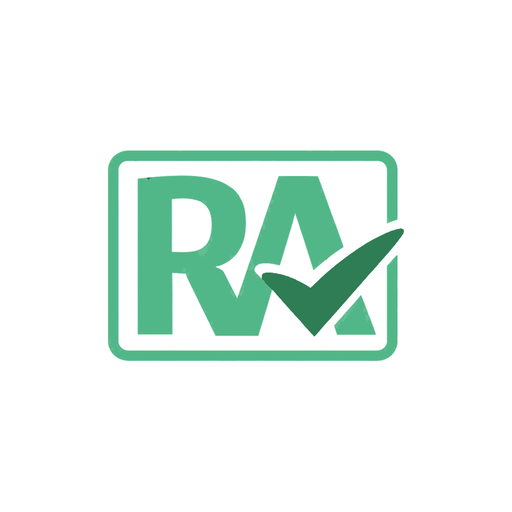
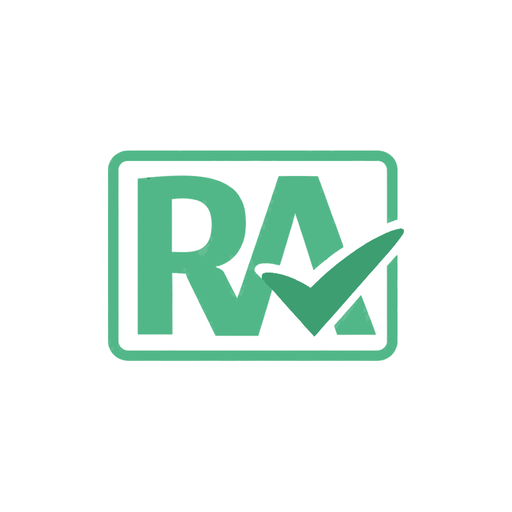
チェックを濃ミント #3D9E72 へ＝目を奪わない（司さん差し戻し 2026-08-29）
司さん「なんか変な／チェックにしか目がいかん」

★2回 外した所を 記録する★
  #2E7D54（浮き2.03・濃い）… 一番 重い物になった＝差し戻し
  #C8ECD8（浮き1.94・薄い）… 32pxで ほぼ 消える（自分で切り出して見た）
  ★#3D9E72（浮き1.34）★    … 枠と一体に見える。小さくしても残る。
⇒ ★「明るい方/濃い方」ではなく『枠から どれだけ離れているか』が効いていた★

・見張りを 決まりごと 直した … ★チェックと枠の浮きが 1.5 以上なら 赤★
  （前の「明るい方が正しい」は 間違い＝薄すぎても 外れる）
  わざと #2E7D54 と #C8ECD8 の 両方を入れて ★どちらも赤になる事を確認★→ 戻した。
・使ってよい色の一覧(BRAND_COLORS)を 機械に持たせた＝一覧に無い色は 赤。
・ロゴ・アイコン6枚・?v= を 刷り直し（--check 両方 一致）。
・形は1ドットも変えていない（塗り替えた元絵と 違い0点）。

Claude-Session: https://claude.ai/code/session_01C5aRa2uJxhXw8ECt3a9s4k

Changed region(s): [[0.5, 0.4375, 0.7812, 0.6562]]

diff --git a/seikyu/index.html b/seikyu/index.html
@@ -9,9 +9,9 @@
 <meta name="apple-mobile-web-app-status-bar-style" content="default">
 <link rel="manifest" href="manifest.json">
 <!-- ★iOSは manifest を見ない＝ここで渡す（透明を持たないPNG＝黒く塗られない）★ -->
-<link rel="apple-touch-icon" href="../img/apple-touch-icon-180.png?v=597730a6">
-<link rel="icon" type="image/png" sizes="32x32" href="../img/favicon-32.png?v=382ce080">
-<link rel="icon" type="image/png" sizes="16x16" href="../img/favicon-16.png?v=8b47e8b8">
+<link rel="apple-touch-icon" href="../img/apple-touch-icon-180.png?v=b196480a">
+<link rel="icon" type="image/png" sizes="32x32" href="../img/favicon-32.png?v=691705d6">
+<link rel="icon" type="image/png" sizes="16x16" href="../img/favicon-16.png?v=b50da9f3">
 <link rel="preconnect" href="https://fonts.googleapis.com">
 <link href="https://fonts.googleapis.com/css2?family=DM+Mono:wght@500&family=Noto+Sans+JP:wght@400;500;700&display=swap" rel="stylesheet">
 <!-- ★見た目の本体はスイート共通の皮。請求書の app.css は差分だけ（読む順は皮が先） -->

diff --git a/kyuyo/index.html b/kyuyo/index.html
@@ -11,9 +11,9 @@
 <meta name="apple-mobile-web-app-status-bar-style" content="default">
 <meta name="apple-mobile-web-app-title" content="給与">
 <!-- ★iOSは manifest を見ない＝ここで渡す（透明を持たないPNG＝黒く塗られない）★ -->
-<link rel="apple-touch-icon" href="../img/apple-touch-icon-180.png?v=597730a6">
-<link rel="icon" type="image/png" sizes="32x32" href="../img/favicon-32.png?v=382ce080">
-<link rel="icon" type="image/png" sizes="16x16" href="../img/favicon-16.png?v=8b47e8b8">
+<link rel="apple-touch-icon" href="../img/apple-touch-icon-180.png?v=b196480a">
+<link rel="icon" type="image/png" sizes="32x32" href="../img/favicon-32.png?v=691705d6">
+<link rel="icon" type="image/png" sizes="16x16" href="../img/favicon-16.png?v=b50da9f3">
 <link rel="preconnect" href="https://fonts.googleapis.com">
 <link href="https://fonts.googleapis.com/css2?family=DM+Mono:wght@500&family=Noto+Sans+JP:wght@400;500;700&display=swap" rel="stylesheet">
 <link rel="stylesheet" href="css/app.css?v=462e325f">

diff --git a/index.html b/index.html
@@ -7,9 +7,9 @@
 <title>Rakunally（ラクナリー）</title>
 <link rel="manifest" href="manifest.json">
 <!-- ★iOSは manifest を見ない＝ここで渡す（透明を持たないPNG＝黒く塗られない）★ -->
-<link rel="apple-touch-icon" href="img/apple-touch-icon-180.png?v=597730a6">
-<link rel="icon" type="image/png" sizes="32x32" href="img/favicon-32.png?v=382ce080">
-<link rel="icon" type="image/png" sizes="16x16" href="img/favicon-16.png?v=8b47e8b8">
+<link rel="apple-touch-icon" href="img/apple-touch-icon-180.png?v=b196480a">
+<link rel="icon" type="image/png" sizes="32x32" href="img/favicon-32.png?v=691705d6">
+<link rel="icon" type="image/png" sizes="16x16" href="img/favicon-16.png?v=b50da9f3">
 <link rel="preconnect" href="https://fonts.googleapis.com">
 <link rel="preconnect" href="https://fonts.gstatic.com" crossorigin>
 <link href="https://fonts.googleapis.com/css2?family=DM+Mono:wght@500&family=Noto+Sans+JP:wght@400;700&display=swap" rel="stylesheet">

diff --git a/kyuyo/meisai.html b/kyuyo/meisai.html
@@ -14,8 +14,8 @@
      ★iOSは apple-touch-icon に SVG を使えない★ので PNG に焼いた物を渡す（今までは絵が出なかった）。
      絵は元から在ったSVGをそのまま焼いた物＝描き直していない（scripts/make-icons.mjs）。 -->
 <link rel="apple-touch-icon" href="img/meisai-180.png?v=2b5a7f40">
-<link rel="icon" type="image/png" sizes="32x32" href="../img/favicon-32.png?v=382ce080">
-<link rel="icon" type="image/png" sizes="16x16" href="../img/favicon-16.png?v=8b47e8b8">
+<link rel="icon" type="image/png" sizes="32x32" href="../img/favicon-32.png?v=691705d6">
+<link rel="icon" type="image/png" sizes="16x16" href="../img/favicon-16.png?v=b50da9f3">
 <!-- ★ホーム画面の絵は 本物のロゴを使う★（2026-08-19）
      前は data: の中に ★手描きの「給」SVG★ を埋めていたので、
      08-18 にロゴへ差し替えた時 ★ここだけ古い絵のまま★ 残っていた。

diff --git a/kyuyo/admin.html b/kyuyo/admin.html
@@ -12,8 +12,8 @@
 <meta name="apple-mobile-web-app-title" content="Rakunally管理">
 <!-- ★ホーム画面は「管」で見分ける（給与と並ぶので同じ絵にしない）／タブの絵は Rakunally ★ -->
 <link rel="apple-touch-icon" href="img/admin-192.png?v=268f435d">
-<link rel="icon" type="image/png" sizes="32x32" href="../img/favicon-32.png?v=382ce080">
-<link rel="icon" type="image/png" sizes="16x16" href="../img/favicon-16.png?v=8b47e8b8">
+<link rel="icon" type="image/png" sizes="32x32" href="../img/favicon-32.png?v=691705d6">
+<link rel="icon" type="image/png" sizes="16x16" href="../img/favicon-16.png?v=b50da9f3">
 <style>
   /* ★押す物の色は Rakunally 全画面で 1組★（司さん 2026-08-29「統一感は？」）
      --accent  … 塗る本命 #3D9E72（皮 css/rakunally-ui.css の .btn-primary と 同じ値）
